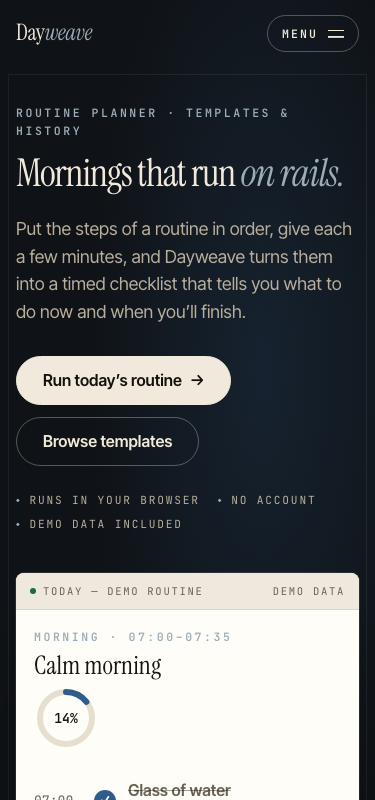
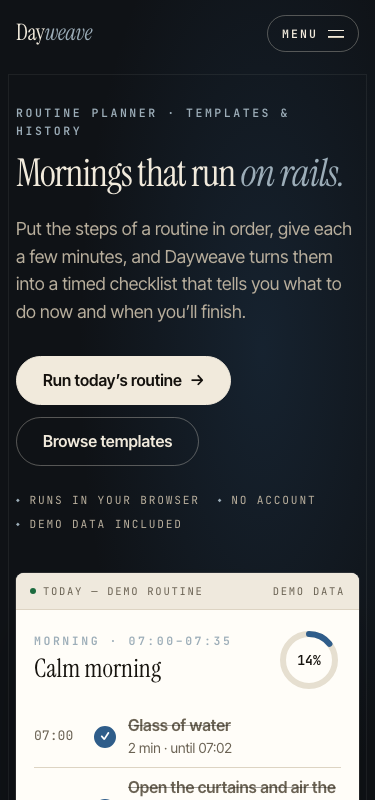
Make row-between layouts self-contained flex rows

diff --git a/src/shared/base.css b/src/shared/base.css
@@ -1640,3 +1640,9 @@ fieldset {
 .table-wrap {
   position: relative; /* keeps absolutely positioned sr-only labels inside the scroller */
 }
+.row-between {
+  display: flex;
+  align-items: center;
+  flex-wrap: wrap;
+  gap: 8px 12px;
+}
